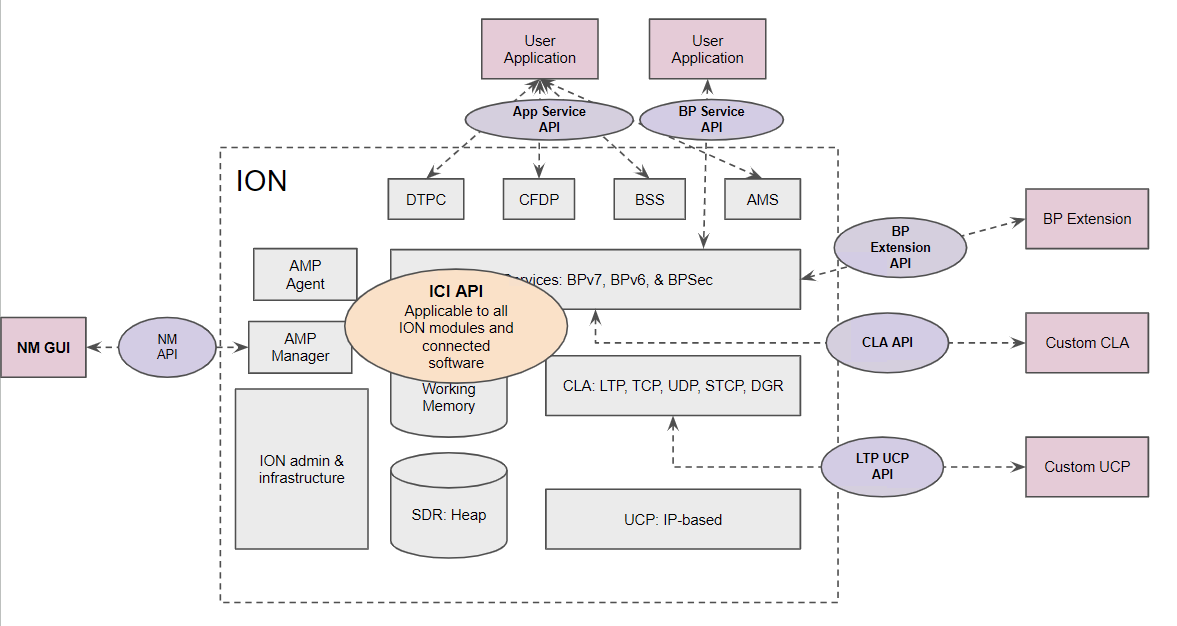
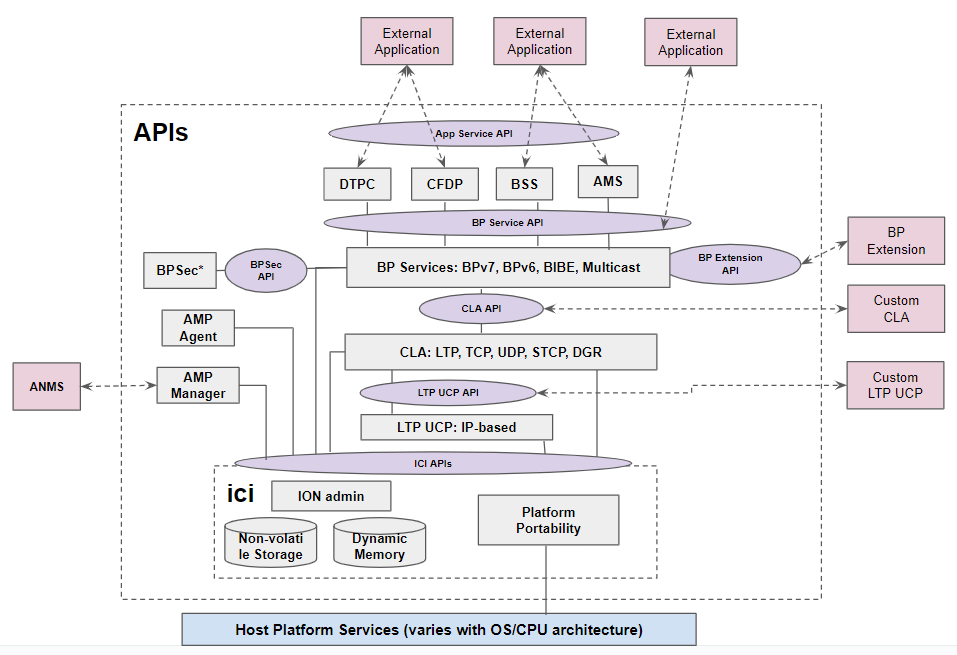
update design diagram and platform ici content

diff --git a/gh-pages/docs/Platform-Macros-Error-Reporting.md b/gh-pages/docs/Platform-Macros-Error-Reporting.md
@@ -2,9 +2,9 @@
 
 _From manual page for "platform"_
 
-## PLATFORM COMPATIBILITY PATCHES
+## Platform Compatibility
 
-The platform library "patches" the APIs of supported O/S's to guarantee that all of the following items may be utilized by application software:
+The platform library "patches" the APIs of supported OS's to guarantee that all of the following items may be utilized by application software:
 
 
     The strchr(), strrchr(), strcasecmp(), and strncasecmp() functions.
@@ -21,7 +21,7 @@ The platform library "patches" the APIs of supported O/S's to guarantee that all
 
     The timer_t type definition.
 
-## PLATFORM GENERIC MACROS AND FUNCTIONS
+## Platform Generic Macros & Functions
 
 The generic macros and functions in this section may be used in place of comparable O/S-specific functions, to enhance the portability of code. (The implementations of these macros and functions are no-ops in environments in which they are inapplicable, so they're always safe to call.)
 
@@ -160,87 +160,159 @@ ifopen() is a portable function for opening "regular" files. It operates in exac
 
 NOTE that ION also provides iopen() which is nothing more than a portable wrapper for open(). iopen() can be used to open a directory, for example.
 
---RESUME HERE!-------------------------------------------------------------------------
+### igets
 
+```c
 char *igets(int fd, char *buffer, int buflen, int *lineLen)
+```
 
 igets() reads a line of text, delimited by a newline character, from fd into buffer and writes a NULL character at the end of the string. The newline character itself is omitted from the NULL-terminated text line in buffer; if the newline is immediately preceded by a carriage return character (i.e., the line is from a DOS text file), then the carriage return character is likewise omitted from the NULL-terminated text line in buffer. End of file is interpreted as an implicit newline, terminating the line. If the number of characters preceding the newline is greater than or equal to buflen, only the first (buflen - 1) characters of the line are written into buffer. On error the function sets *lineLen to -1 and returns NULL. On reading end-of-file, the function sets *lineLen to zero and returns NULL. Otherwise the function sets *lineLen to the length of the text line in buffer, as if from strlen(3), and returns buffer.
 
+### iputs
+
+```c
 int iputs(int fd, char *string)
+```
 
 iputs() writes to fd the NULL-terminated character string at string. No terminating newline character is appended to string by iputs(). On error the function returns -1; otherwise the function returns the length of the character string written to fd, as if from strlen(3).
 
+### strtovast
+
+```c
 vast strtovast(char *string)
+```
 
 Converts the leading characters of string, skipping leading white space and ending at the first subsequent character that can't be interpreted as contributing to a numeric value, to a vast integer and returns that integer.
 
+### strtouvast
+
+```c
 uvast strtouvast(char *string)
+```
 
 Same as strtovast() except the result is an unsigned vast integer value.
 
+### findToken
+
+```c
 void findToken(char **cursorPtr, char **token)
+```
 
 Locates the next non-whitespace lexical token in a character array, starting at *cursorPtr. The function NULL-terminates that token within the array and places a pointer to the token in *token. Also accommodates tokens enclosed within matching single quotes, which may contain embedded spaces and escaped single-quote characters. If no token is found, *token contains NULL on return from this function.
 
+### acquireSystemMemory
+
+```c
 void *acquireSystemMemory(size_t size)
+```
 
 Uses memalign() to allocate a block of system memory of length size, starting at an address that is guaranteed to be an integral multiple of the size of a pointer to void, and initializes the entire block to binary zeroes. Returns the starting address of the allocated block on success; returns NULL on any error.
 
+### createFile
+
+```c
 int createFile(const char *name, int flags)
+```
 
 Creates a file of the indicated name, using the indicated file creation flags. This function provides common file creation functionality across VxWorks and Unix platforms, invoking creat() under VxWorks and open() elsewhere. For return values, see creat(2) and open(2).
 
+### getInternetAddress
+
+```c
 unsigned int getInternetAddress(char *hostName)
+```
 
 Returns the IP address of the indicated host machine, or zero if the address cannot be determined.
 
+### getInternetHostName
+
+```c
 char *getInternetHostName(unsigned int hostNbr, char *buffer)
+```
 
 Writes the host name of the indicated host machine into buffer and returns buffer, or returns NULL on any error. The size of buffer should be (MAXHOSTNAMELEN + 1).
 
+### getNameOfHost
+
+```c
 int getNameOfHost(char *buffer, int bufferLength)
+```
 
 Writes the first (bufferLength - 1) characters of the host name of the local machine into buffer. Returns 0 on success, -1 on any error.
 
+### getAddressOfHost
+
+```c
 unsigned int getAddressOfHost()
+```
 
 Returns the IP address for the host name of the local machine, or 0 on any error.
 
+### parseSocketSpec
+
+```c
 void parseSocketSpec(char *socketSpec, unsigned short *portNbr, unsigned int *hostNbr)
+```
 
 Parses socketSpec, extracting host number (IP address) and port number from the string. socketSpec is expected to be of the form "{ @ | hostname }[:<portnbr>]", where @ signifies "the host name of the local machine". If host number can be determined, writes it into *hostNbr; otherwise writes 0 into *hostNbr. If port number is supplied and is in the range 1024 to 65535, writes it into *portNbr; otherwise writes 0 into *portNbr.
 
+### printDottedString
+
+```c
 void printDottedString(unsigned int hostNbr, char *buffer)
+```
 
 Composes a dotted-string (xxx.xxx.xxx.xxx) representation of the IPv4 address in hostNbr and writes that string into buffer. The length of buffer must be at least 16.
 
+### getNameOfUser
+
+```c
 char *getNameOfUser(char *buffer)
+```
 
 Writes the user name of the invoking task or process into buffer and returns buffer. The size of buffer must be at least L_cuserid, a constant defined in the stdio.h header file. Returns buffer.
 
+### reUseAddress
+
+```c
 int reUseAddress(int fd)
+```
 
 Makes the address that is bound to the socket identified by fd reusable, so that the socket can be closed and immediately reopened and re-bound to the same port number. Returns 0 on success, -1 on any error.
 
+### makeIoNonBlocking
+
+```c
 int makeIoNonBlocking(int fd)
+```
 
 Makes I/O on the socket identified by fd non-blocking; returns -1 on failure. An attempt to read on a non-blocking socket when no data are pending, or to write on it when its output buffer is full, will not block; it will instead return -1 and cause errno to be set to EWOULDBLOCK.
 
+### watchSocket
+
+```c
 int watchSocket(int fd)
+```
 
 Turns on the "linger" and "keepalive" options for the socket identified by fd. See socket(2) for details. Returns 0 on success, -1 on any failure.
 
+### closeOnExec
+
+```c
 void closeOnExec(int fd)
+```
 
 Ensures that fd will NOT be open in any child process fork()ed from the invoking process. Has no effect on a VxWorks platform.
 
-## EXCEPTION REPORTING
+-------------------
+
+## Exception Reporting
 
 The functions in this section offer platform-independent capabilities for reporting on processing exceptions.
 
-The underlying mechanism for ICI's exception reporting is a pair of functions that record error messages in a privately managed pool of static memory. These functions -- postErrmsg() and postSysErrmsg() -- are designed to return very rapidly with no possibility of failing, themselves. Nonetheless they are not safe to call from an interrupt service routing (ISR). Although each merely copies its text to the next available location in the error message memory pool, that pool is protected by a mutex; multiple processes might be queued up to take that mutex, so the total time to execute the function is non-deterministic.
+The underlying mechanism for ICI's exception reporting is a pair of functions that record error messages in a privately managed pool of static memory. These functions -- `postErrmsg()` and `postSysErrmsg()` -- are designed to return very rapidly with no possibility of failing, themselves. Nonetheless they are not safe to call from an interrupt service routing (ISR). Although each merely copies its text to the next available location in the error message memory pool, that pool is protected by a mutex; multiple processes might be queued up to take that mutex, so the total time to execute the function is non-deterministic.
 
-Built on top of postErrmsg() and postSysErrmsg() are the putErrmsg() and putSysErrmsg() functions, which may take longer to return. Each one simply calls the corresponding "post" function but then calls the writeErrmsgMemos() function, which calls writeMemo() to print (or otherwise deliver) each message currently posted to the pool and then destroys all of those posted messages, emptying the pool.
+Built on top of `postErrmsg()` and `postSysErrmsg()` are the `putErrmsg()` and `putSysErrmsg()` functions, which may take longer to return. Each one simply calls the corresponding "post" function but then calls the `writeErrmsgMemos()` function, which calls `writeMemo()` to print (or otherwise deliver) each message currently posted to the pool and then destroys all of those posted messages, emptying the pool.
 
 Recommended general policy on using the ICI exception reporting functions (which the functions in the ION distribution libraries are supposed to adhere to) is as follows:
 
@@ -342,7 +414,7 @@ The default Logger function simply writes the message to standard output.
 void writeMemo(char *msg)
 ```
 
-Writes one log message, using the currently defined message logging function.
+Writes one log message, using the currently defined message logging function. To construct a more complex string, it is customary and safer to use the isprintf function to build a message string first, and then pass that string as an argument to writeMemo.
 
 ### writeMemoNote ###
 
@@ -350,7 +422,7 @@ Writes one log message, using the currently defined message logging function.
 void writeMemoNote(char *msg, char *note)
 ```
 
-Writes a log message like writeMemo(), accompanied by the user-supplied context-specific text in note.
+Writes a log message like writeMemo(), accompanied by the user-supplied context-specific text string in note. The text string can also be build separately using isprintf().
 
 ### writeErrMemo ###
 
@@ -451,5 +523,5 @@ Note that (a) printStackTrace() is only implemented for Linux platforms at this 
 
 For more complete information about the state of the executable at the time the stack trace snapshot was taken, use the Linux addr2line tool. To do this, cd into a directory in which the executable file resides (such as /opt/bin) and submit an addr2line command as follows:
 
-addr2line -e _name\_of\_executable_ _stack\_frame\_address_
+`addr2line -e name_of_executable stack_frame_address`
 where both name_of_executable and stack_frame_address are taken from one of the lines of the printed stack trace. addr2line will print the source file name and line number for that stack frame.

diff --git a/gh-pages/docs/ION-Design-and-API-Overview.md b/gh-pages/docs/ION-Design-and-API-Overview.md
@@ -10,24 +10,23 @@ ION began its development in the early 2000's focusing on flight system running 
 
 **Efficient Resource Utilization**: ION is optimized for environments with limited memory, storage, and processing resources. It avoids duplicate data copies during multi-stage processing by utilizing Zero-Copy Objects (ZCO) in shared-memory for fast hand-off between modules. This method, while more complex, ensures rapid data handling. Additionally, BP and CLA services operate as background daemons to minimize competition with critical spacecraft functions during nominal, high-stress operation and off-nominal events.
 
-**Independence from Native IP Socket Support**: ION employs software abstraction to decouple socket-based programming from its core functionalities. This allows ION to interface the Bundle Protocol and CLAs with various underlying communication systems, such as CCSDS space links or radio communications systems or customized processing chains that are not IP-based.
+**Independence from Native IP Socket Support**: ION employs software abstraction to decouple socket-based programming from its core functionalities. This allows ION to interface the Bundle Protocol and CLAs with various underlying communication systems, such as CCSDS space links or, radio communications systems, or customized processing chains that are not IP-based.
 
-**Portability and Minimal Footprint for Static Linking**: ION prioritizes portability and minimal resource footprint by building its own function libraries. This approach supports static linking through the ION-core package for specific set of modules and reduces dependency on external libraries, thereby mitigating the risk of interference from unexercised or non-required code that cannot be removed from the libraries. This design also avoids potential compatibility issues between the target system’s build environment and those of externally-sourced libraries.
+**Portability and Minimal Footprint for Static Linking**: ION prioritizes portability and minimal resource footprint by building its function libraries. This approach supports static linking through the ION-core package for a specific set of modules. It reduces dependency on external libraries, thereby mitigating the risk of interference from unexercised or non-required code that cannot be removed from the libraries. This design also avoids potential compatibility issues between the target system’s build environment and those of externally sourced libraries.
 
 ## ION Modules
-
-In the [BP Service API document](./BP-Service-API.md) we shown the default installation location of various libraries and daemons. Interactions with these daemons relies on the use of various ION APIs available in the libraries. The following diagram shows ION's modular architecture:
+The [BP Service API document](./BP-Service-API.md) shows the default installation location of various libraries and daemons. Interactions with these daemons rely on various ION APIs available in the libraries. The following diagram shows ION's modular architecture:
 
 ![ION Modules](images/ION-Design-and-API-Overview/ion-modules.png)
 
-ION provides four application-layer services that utilizes the underlying DTN protocols. These services are:
+ION provides four application-layer services that utilize the underlying DTN protocols. These services are:
 
 1. **AMS**: Asynchronous Message Service
 2. **DTPC**: Delay-Tolerant Payload Conditioning
 3. **CFDP**: CCSDS File Delivery Protocol
 4. **BSS**: Bundle Streaming Service
 
-ION provides BP services based on Bundle Protocol v6 and Bundle Protocol v7, BPSec (Bundle Protocol Security), and the Interplanetary Internet (IPN) naming scheme, etc. In addition, it offers several standardized convergence layer adaptors, namely:
+ION provides BP services based on Bundle Protocol v6 and Bundle Protocol v7, BPSec (Bundle Protocol Security), and the Interplanetary Internet (IPN) naming scheme. In addition, it offers several standardized convergence layer adaptors, namely:
 
 1. LTP: Licklider Transmission Protocol
 2. TCPCL: TCP Convergence Layer
@@ -37,11 +36,11 @@ ION provides BP services based on Bundle Protocol v6 and Bundle Protocol v7, BPS
 
 ION also provides UDP-based Underlying Communication Protocol (UCP) to support testing of the LTP CLA in terrestrial systems.
 
-ION also has supports the AMS (Asynchronous Management Architecture) by implementing both an Asynchronous Management Protocol (AMP) Agent and Manager and the associated Application Data Model (ADM) that describes both common and ION-specific DTN network management state information and commands.
+ION also supports the AMS (Asynchronous Management Architecture) by implementing both an Asynchronous Management Protocol (AMP) Agent and Manager and the associated Application Data Model (ADM) that describes both common and ION-specific DTN network management state information and commands.
 
-The entire ION software suite is administered and operating within a host-specified memory space and privately managed by ION's ICI infrastructure library functions for space allocation/deallocation, data I/O, and linked list and zero-copy object (ZCO) management. There are two types of data storage, one is working memory to facilitate data processing and the other is heap in the SDR that is designed to store non-volatile state information and data that should persist through power cycle when implemented on non-volatile storage medium. 
+The entire ION software suite operates within a prescribed memory space. It is privately managed by ION's ICI infrastructure library functions for space allocation/deallocation, data I/O, and linked list and zero-copy object (ZCO) management. There are two types of data storage: working memory to facilitate data processing and heap in the SDR designed to store state information and data that should persist through a power cycle when implemented on a non-volatile storage medium. 
 
-ION's API functions are exposed to the user through a set of C header files associated with each modules' library.
+ION's API functions are exposed to the user through a set of C header files associated with each module's library.
 
 ![ION Libraries](images/ION-Design-and-API-Overview/ion-libraries.png)
 
@@ -49,7 +48,7 @@ ION's API functions are exposed to the user through a set of C header files asso
 
 For software development, ION provides several sets of APIs for interacting with services/daemons of the underlying DTN protocols as shown below.
 
-![ION APIs](images/ION-Design-and-API-Overview/ion-apis.png)
+![ION APIs](image/ION-Design-and-API-Overview/ion-apis.png)
 
 ION APIs can be roughly categoried as follows:
 

diff --git a/gh-pages/docs/ICI-API.md b/gh-pages/docs/ICI-API.md
@@ -1,8 +1,8 @@
-# ION Infrasturcutre APIs
+# ION Infrastructure APIs
 
-In this section, we will focus on a subset of infrastructure APIs that enables an external application to access and create data objects inside ION's SDR in the process of requesting and receiving BP services from ION.
+In this section, we will focus on a subset of infrastructure APIs that enables an external application to access and create data objects inside ION's SDR while requesting and receiving BP services from ION.
 
-In order to write a fully functioning BP user application, a combination of ICI APIs described below and a set [BP Service APIs](./BP-Service-API.md) described in a separate document will be required.
+To write a fully functioning BP user application, a combination of ICI APIs described below and a set [BP Service APIs](./BP-Service-API.md) described in a separate document will be required.
 
 ## ION APIs
 
@@ -53,8 +53,7 @@ if (ionAttach() < 0)
 ```
 
 Description
-
-Attaches the invoking task to ION infrastructure as previously established by running the ionadmin utility program. After successful execution, the handle to the ION SDR can be obtained by a separte API call. `putErrmsg` is a ION logging API, which will be described later in this document.
+Attached is the invoking task to ION infrastructure as previously established by running the ionadmin utility program. After successful execution, the handle to the ION SDR can be obtained by a separate API call. `putErrmsg` is an ION logging API, which will be described later in this document.
 
 ---
 
